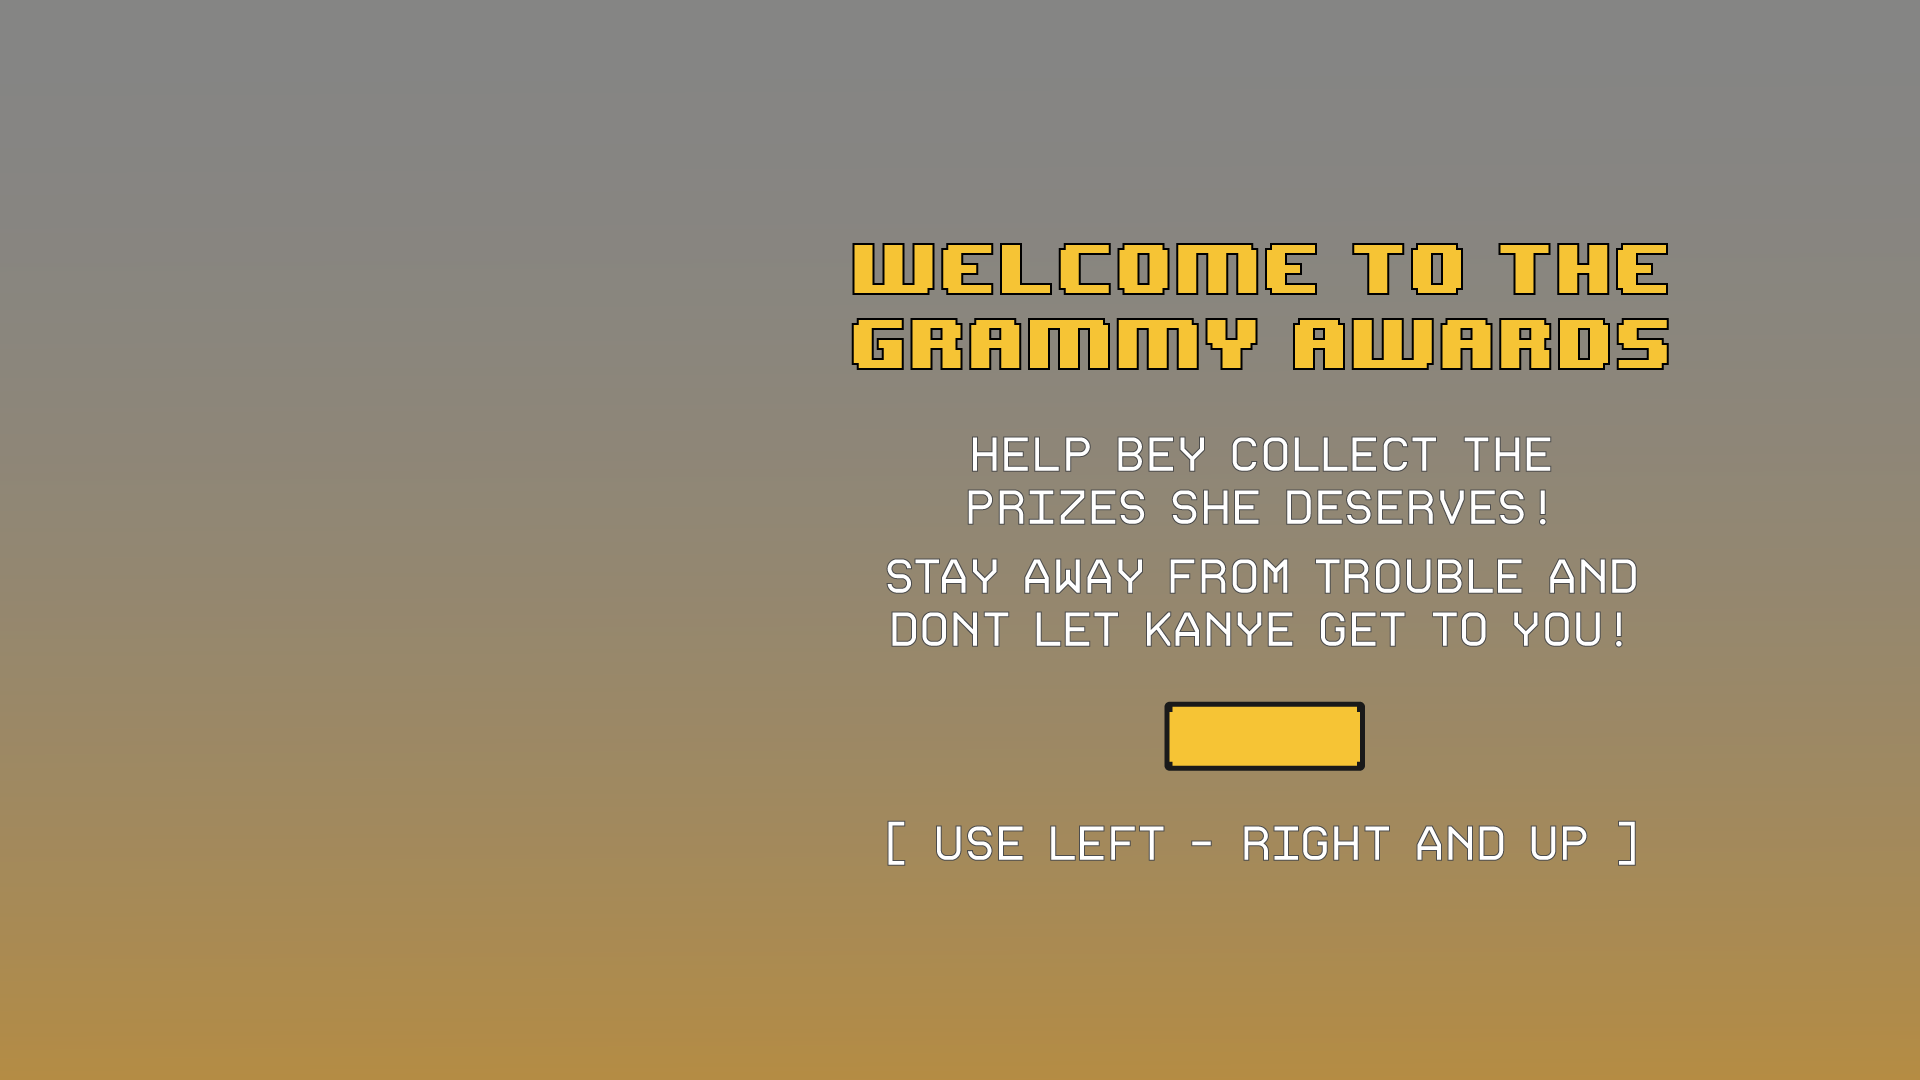
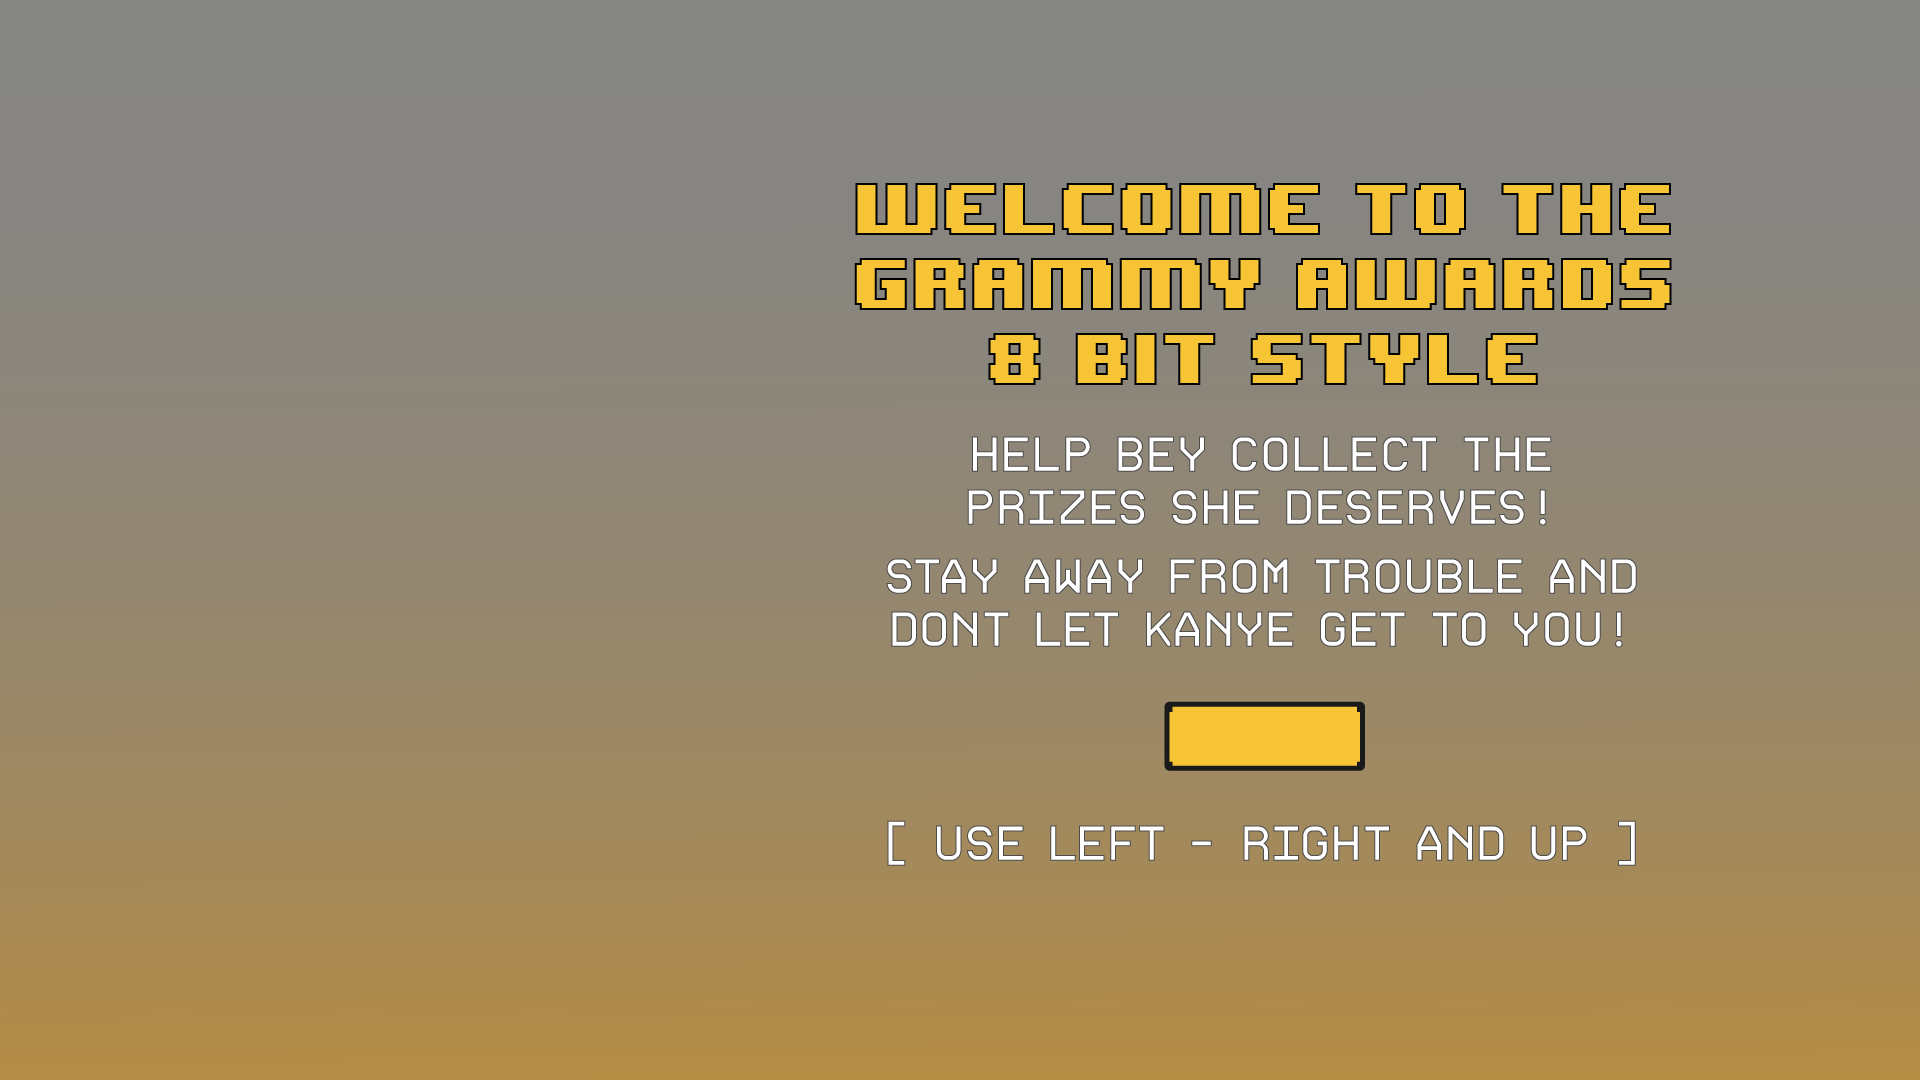
nombre y pantalla de inicio

Changed region(s): [[0.4375, 0.1528, 0.875, 0.3667]]

diff --git a/index.html b/index.html
@@ -1,7 +1,7 @@
 <!DOCTYPE html>
 <html>
 <head>
-  <title>My Game</title>
+  <title>Grammy's 2k19</title>
 
   <!-- IMPORTANTE EL ORDEN -->
   <!-- Si un objeto necesita otro, incluirlo antes -->
